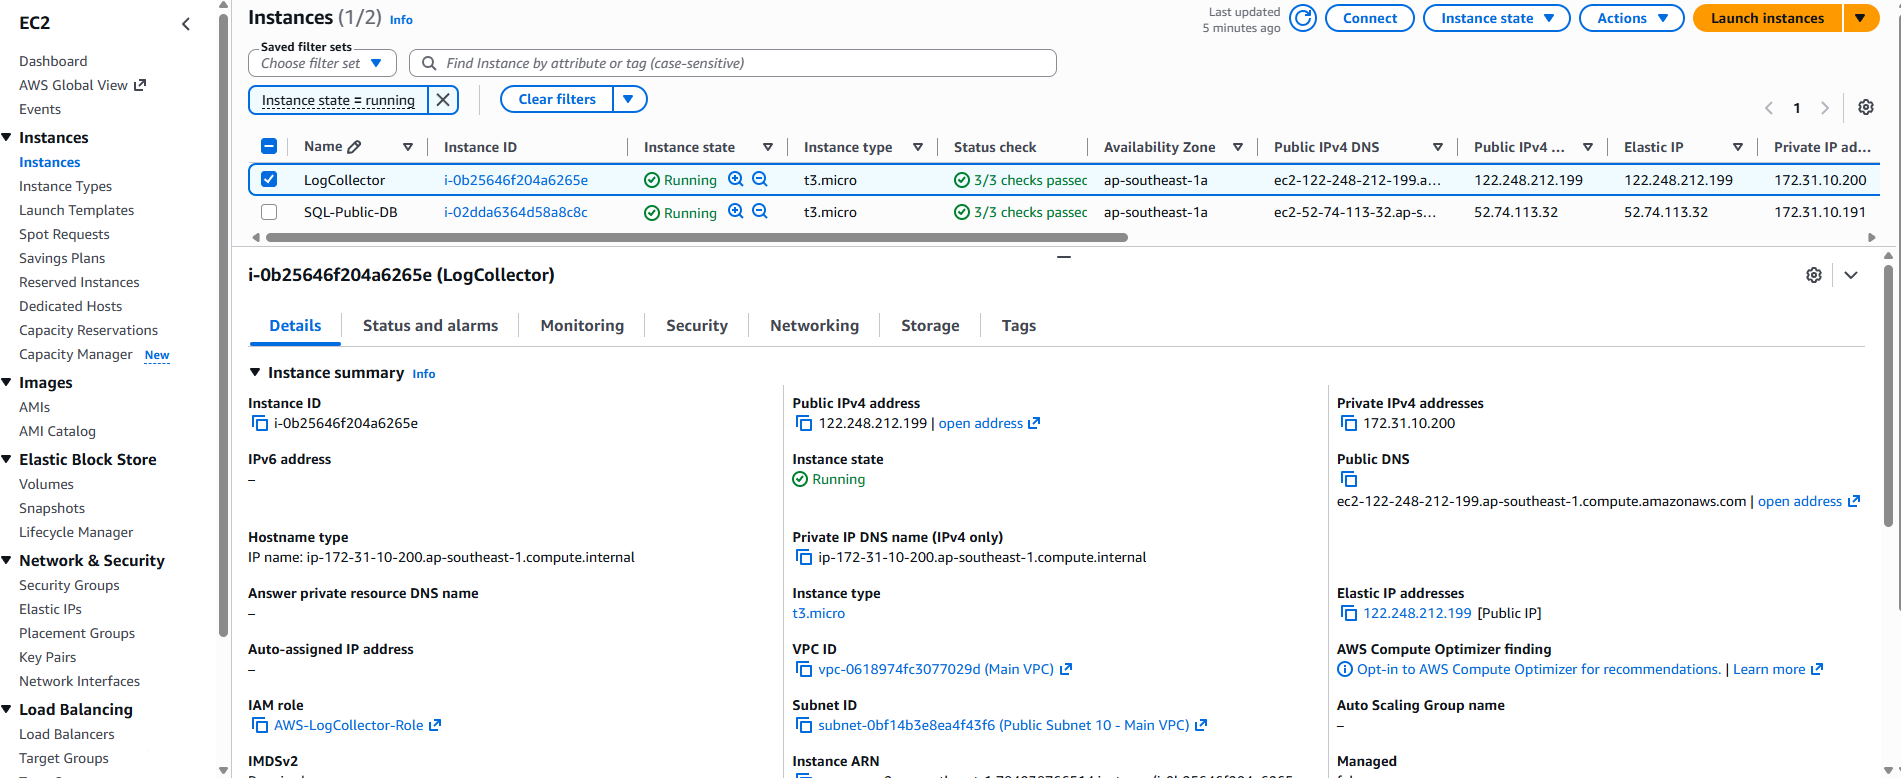
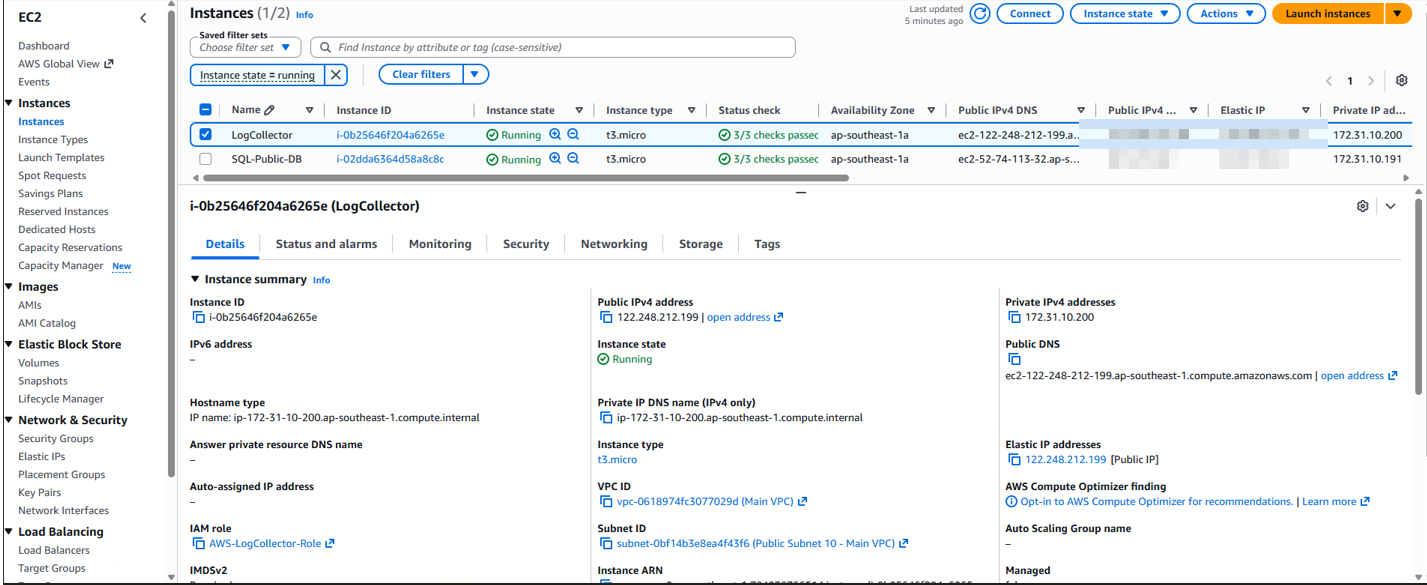
Fix CloudSec

diff --git a/Projects_CloudSec/index.html b/Projects_CloudSec/index.html
@@ -337,6 +337,36 @@ opacity:0;
 transition:.2s;
 }
 .shot a:hover::after{opacity:1}
+
+.gallery-lightbox{position:fixed;inset:0;display:none;align-items:center;justify-content:center;background:rgba(0,0,0,.9);backdrop-filter:blur(6px);z-index:99999}
+.gallery-lightbox.open{display:flex}
+.gallery-lightbox img{max-width:95vw;max-height:95vh;border-radius:8px;box-shadow:0 20px 60px rgba(0,0,0,.7)}
+.gallery-close{
+position:fixed;
+top:24px;
+right:24px;
+width:52px;
+height:52px;
+display:flex;
+align-items:center;
+justify-content:center;
+background:#12161a;
+border:2px solid #14b8a6;
+border-radius:50%;
+color:#ffffff;
+font-size:32px;
+font-weight:bold;
+cursor:pointer;
+z-index:100000;
+box-shadow:0 0 20px rgba(20,184,166,.35);
+transition:.2s ease;
+user-select:none;
+}
+.gallery-close:hover{
+background:#14b8a6;
+color:#04110f;
+transform:scale(1.08);
+}
 </style>
 </head>
 <body>
@@ -541,7 +571,7 @@ transition:.2s;
     </p>
 </div>
 </section>
-<section id="screenshots"><div class="section-tag">ls Images/</div><h2 class="section-title">Implementation Walkthrough</h2><p class="section-sub">Screenshots captured from the live deployment showing telemetry flow from AWS into the on-premises Wazuh SIEM.</p><div class="gallery"><div class="shot"><a href="Images/EC2.png" target="_blank"><img alt="EC2 Processing Layer" src="Images/EC2.png"/></a><div class="cap"><h3>EC2 Processing Layer</h3><p>AWS EC2 instance acting as the log collection and processing server.</p></div></div><div class="shot"><a href="Images/VPC_flog_logs.png" target="_blank"><img alt="CloudWatch VPC Flow Logs" src="Images/VPC_flog_logs.png"/></a><div class="cap"><h3>CloudWatch VPC Flow Logs</h3><p>VPC Flow Logs generated by AWS and stored in CloudWatch.</p></div></div><div class="shot"><a href="Images/VPC_logs_ingested.png" target="_blank"><img alt="Flow Logs Ingested" src="Images/VPC_logs_ingested.png"/></a><div class="cap"><h3>Flow Logs Ingested</h3><p>Normalized VPC Flow Logs successfully ingested into Wazuh archives.</p></div></div><div class="shot"><a href="Images/Wazuh.png" target="_blank"><img alt="Wazuh Agents" src="Images/Wazuh.png"/></a><div class="cap"><h3>Wazuh Agents</h3><p>Hybrid environment with AWS and on-prem agents connected.</p></div></div><div class="shot"><a href="Images/wazuh_detection.png" target="_blank"><img alt="Threat Detections" src="Images/wazuh_detection.png"/></a><div class="cap"><h3>Threat Detections</h3><p>Custom detections including port scans and brute-force attempts.</p></div></div><div class="shot"><a href="Images/MariaDB_detection.png" target="_blank"><img alt="MariaDB Correlation" src="Images/MariaDB_detection.png"/></a><div class="cap"><h3>MariaDB Correlation</h3><p>Database authentication events correlated with network telemetry.</p></div></div><div class="shot"><a href="Images/Threat_hunting.png" target="_blank"><img alt="Threat Hunting Dashboard" src="Images/Threat_hunting.png"/></a><div class="cap"><h3>Threat Hunting Dashboard</h3><p>Security analytics dashboard showing detections and alert trends.</p></div></div><div class="shot"><a href="Images/vulnerability_detection.png" target="_blank"><img alt="Vulnerability Detection" src="Images/vulnerability_detection.png"/></a><div class="cap"><h3>Vulnerability Detection</h3><p>Wazuh vulnerability dashboard for the AWS collector instance.</p></div></div></div></section><section id="roadmap">
+<section id="screenshots"><div class="section-tag">ls Images/</div><h2 class="section-title">Implementation Walkthrough</h2><p class="section-sub">Screenshots captured from the live deployment showing telemetry flow from AWS into the on-premises Wazuh SIEM.</p><div class="gallery"><div class="shot"><a href="Images/EC2.png"><img alt="EC2 Processing Layer" src="Images/EC2.png"/></a><div class="cap"><h3>EC2 Processing Layer</h3><p>AWS EC2 instance acting as the log collection and processing server.</p></div></div><div class="shot"><a href="Images/VPC_flog_logs.png"><img alt="CloudWatch VPC Flow Logs" src="Images/VPC_flog_logs.png"/></a><div class="cap"><h3>CloudWatch VPC Flow Logs</h3><p>VPC Flow Logs generated by AWS and stored in CloudWatch.</p></div></div><div class="shot"><a href="Images/VPC_logs_ingested.png"><img alt="Flow Logs Ingested" src="Images/VPC_logs_ingested.png"/></a><div class="cap"><h3>Flow Logs Ingested</h3><p>Normalized VPC Flow Logs successfully ingested into Wazuh archives.</p></div></div><div class="shot"><a href="Images/Wazuh.png"><img alt="Wazuh Agents" src="Images/Wazuh.png"/></a><div class="cap"><h3>Wazuh Agents</h3><p>Hybrid environment with AWS and on-prem agents connected.</p></div></div><div class="shot"><a href="Images/wazuh_detection.png"><img alt="Threat Detections" src="Images/wazuh_detection.png"/></a><div class="cap"><h3>Threat Detections</h3><p>Custom detections including port scans and brute-force attempts.</p></div></div><div class="shot"><a href="Images/MariaDB_detection.png"><img alt="MariaDB Correlation" src="Images/MariaDB_detection.png"/></a><div class="cap"><h3>MariaDB Correlation</h3><p>Database authentication events correlated with network telemetry.</p></div></div><div class="shot"><a href="Images/Threat_hunting.png"><img alt="Threat Hunting Dashboard" src="Images/Threat_hunting.png"/></a><div class="cap"><h3>Threat Hunting Dashboard</h3><p>Security analytics dashboard showing detections and alert trends.</p></div></div><div class="shot"><a href="Images/vulnerability_detection.png"><img alt="Vulnerability Detection" src="Images/vulnerability_detection.png"/></a><div class="cap"><h3>Vulnerability Detection</h3><p>Wazuh vulnerability dashboard for the AWS collector instance.</p></div></div></div></section><section id="roadmap">
 <div class="section-tag">git diff --stat</div>
 <h2 class="section-title">Current State &amp; What's Next</h2>
 <div class="diff-grid">
@@ -681,6 +711,36 @@ document.querySelectorAll('.grid').forEach(grid=>{
     child.style.transitionDelay=Math.min(i*70,280)+'ms';
   });
 });
+
+
+// Screenshot lightbox
+(function(){
+const lb=document.getElementById('galleryLightbox');
+const img=lb.querySelector('#galleryImage');
+const close=lb.querySelector('#galleryClose');
+
+document.querySelectorAll('.shot a').forEach(link=>{
+  link.onclick=function(e){
+    e.preventDefault();
+    img.src=this.getAttribute('href');
+    lb.classList.add('open');
+    return false;
+  };
+});
+
+function hide(){
+  lb.classList.remove('open');
+  img.src='';
+}
+close.onclick=hide;
+lb.onclick=function(e){ if(e.target===lb) hide(); };
+document.addEventListener('keydown',e=>{ if(e.key==='Escape') hide(); });
+})();
 </script>
+
+<div class="gallery-lightbox" id="galleryLightbox">
+<span class="gallery-close" id="galleryClose">×</span>
+<img alt="" id="galleryImage" src=""/>
+</div>
 </body>
 </html>
